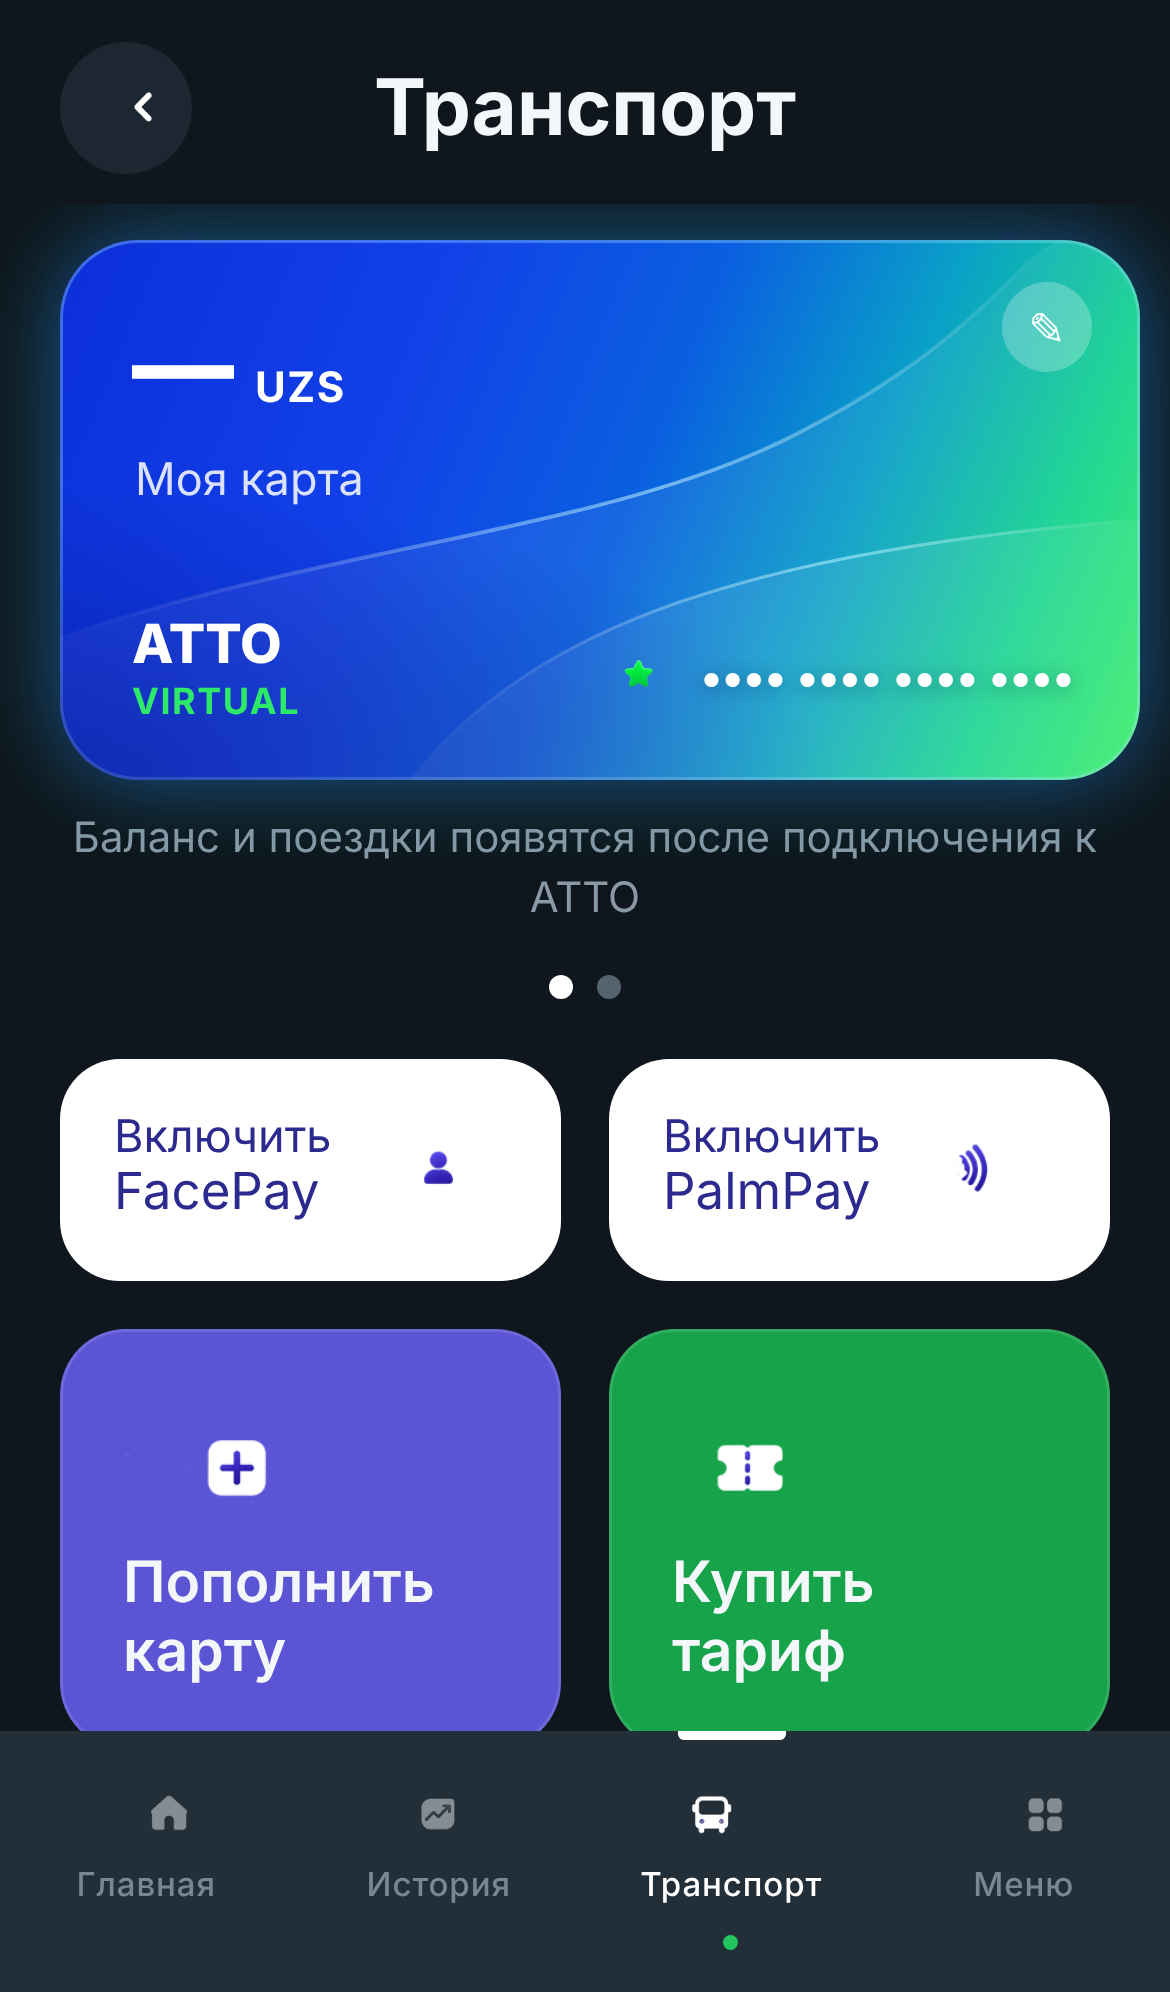
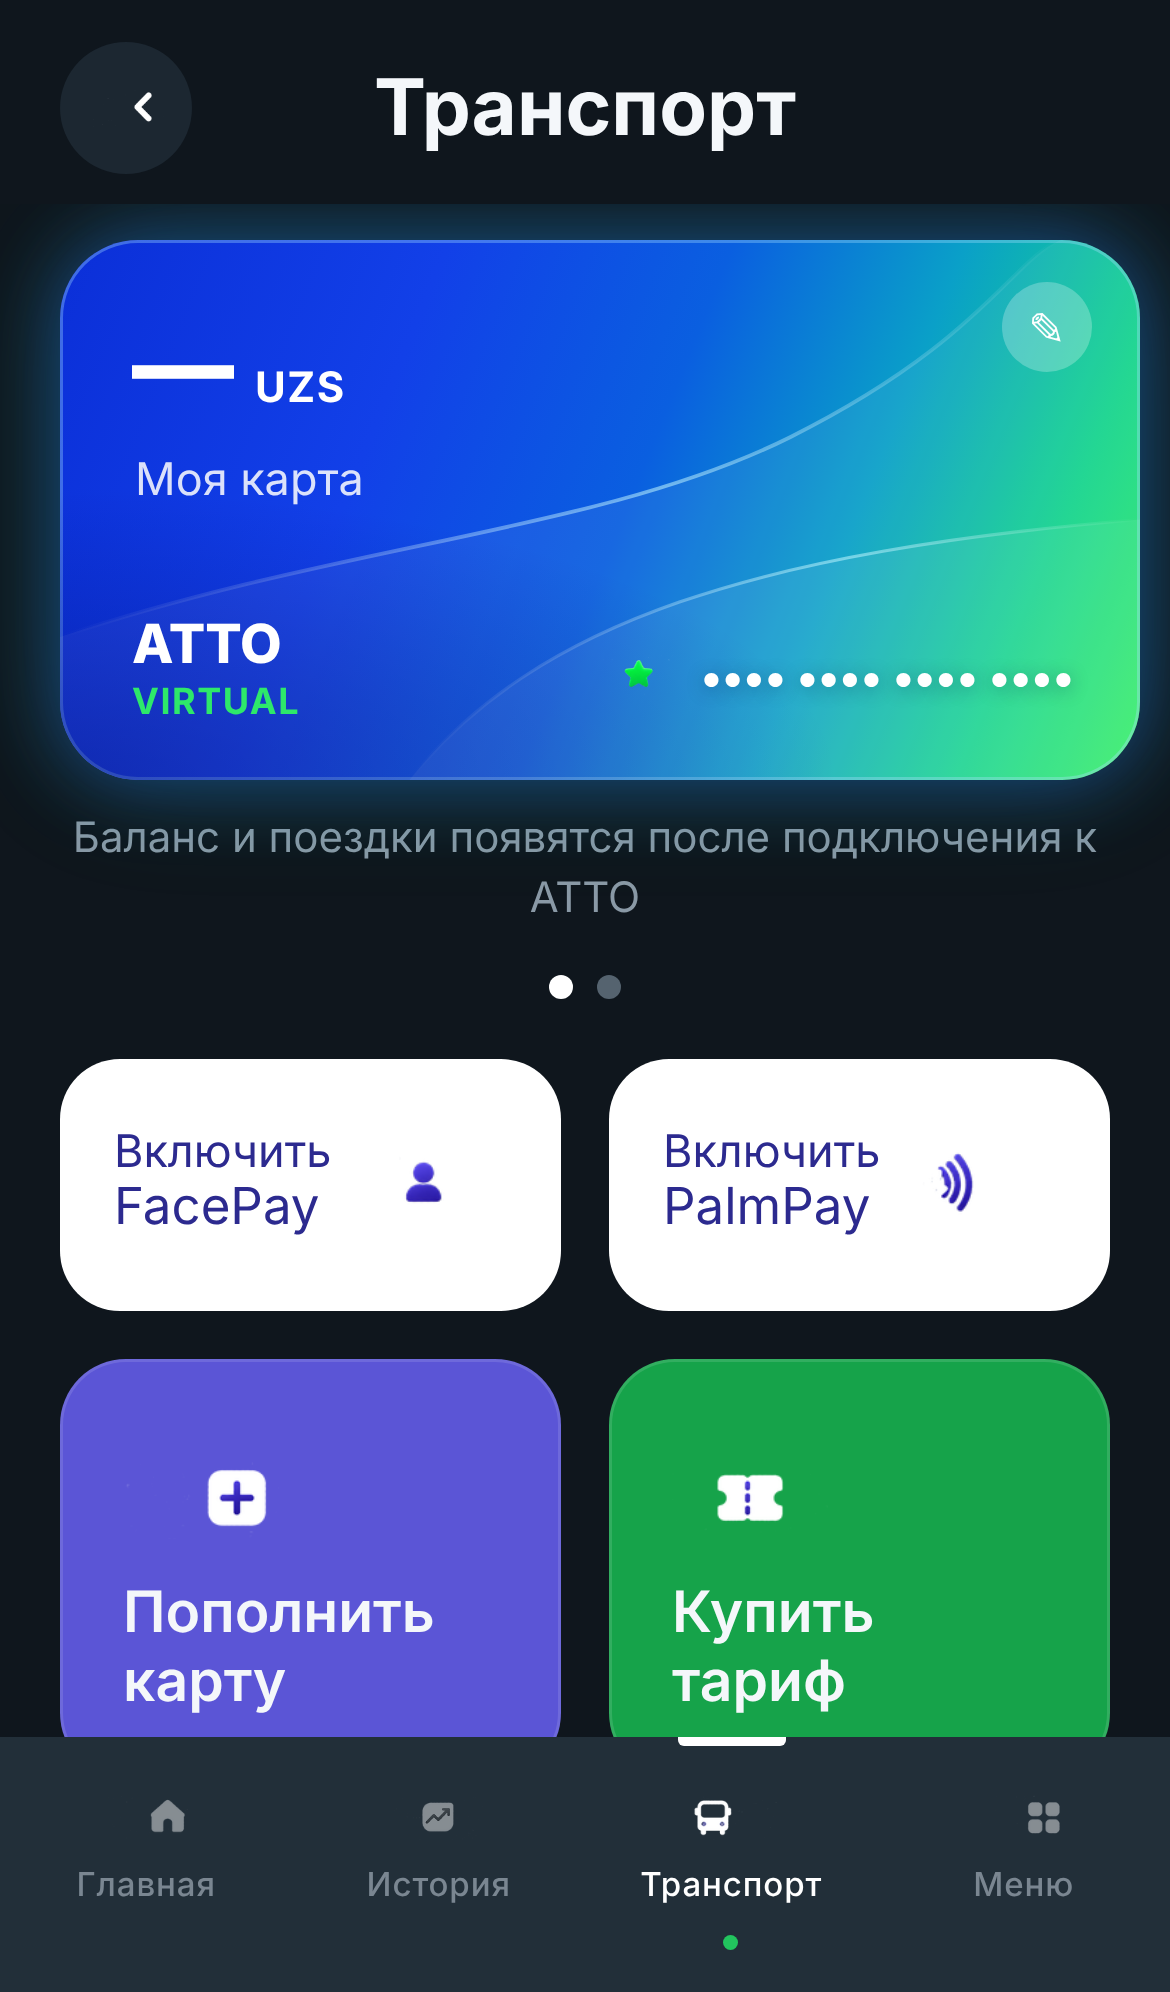
Konsept: FacePay/PalmPay va nav ikonlari kattalashtirildi
Claude-Session: https://claude.ai/code/session_01KVTEyQMYscgZHJL55JKxj1

diff --git a/src/concept/ConceptApp.jsx b/src/concept/ConceptApp.jsx
@@ -127,8 +127,8 @@ export default function ConceptApp() {
             </p>
             <div className="dots"><i className="on" /><i /></div>
             <div className="grid2">
-              <button className="pill-btn" onClick={soon('FacePay')}><span><small>Включить</small>FacePay</span><Ic name="facepay" size={46} /></button>
-              <button className="pill-btn" onClick={soon('PalmPay')}><span><small>Включить</small>PalmPay</span><Ic name="palmpay" size={46} /></button>
+              <button className="pill-btn" onClick={soon('FacePay')}><span><small>Включить</small>FacePay</span><Ic name="facepay" size={56} /></button>
+              <button className="pill-btn" onClick={soon('PalmPay')}><span><small>Включить</small>PalmPay</span><Ic name="palmpay" size={56} /></button>
               <button className="action violet" onClick={soon('Пополнение карты')}><Ic name="plus" size={52} />Пополнить карту</button>
               <button className="action green" onClick={soon('Покупка тарифа')}><Ic name="ticket" size={52} />Купить тариф</button>
             </div>
@@ -164,7 +164,7 @@ export default function ConceptApp() {
         <nav className="tabbar">
           {TABS.map((t) => (
             <button key={t.id} className={`tab ${page === t.id ? 'on' : ''}`} onClick={() => setPage(t.id)}>
-              <Ic name={t.icon === 'history' ? 'chart' : t.icon} size={32} className="tabic" />{t.label}
+              <Ic name={t.icon === 'history' ? 'chart' : t.icon} size={38} className="tabic" />{t.label}
             </button>
           ))}
         </nav>

diff --git a/src/styles.css b/src/styles.css
@@ -230,3 +230,4 @@ code { background: var(--surface-2); padding: 2px 6px; border-radius: 6px; font-
 .tab .tabic { opacity: .45; filter: grayscale(1) brightness(1.4); transition: opacity .15s; }
 .tab.on .tabic { opacity: 1; filter: none; }
 .action .tabic, .action img { margin-bottom: auto; }
+.tab .tabic { width: 30px; height: 30px; }
